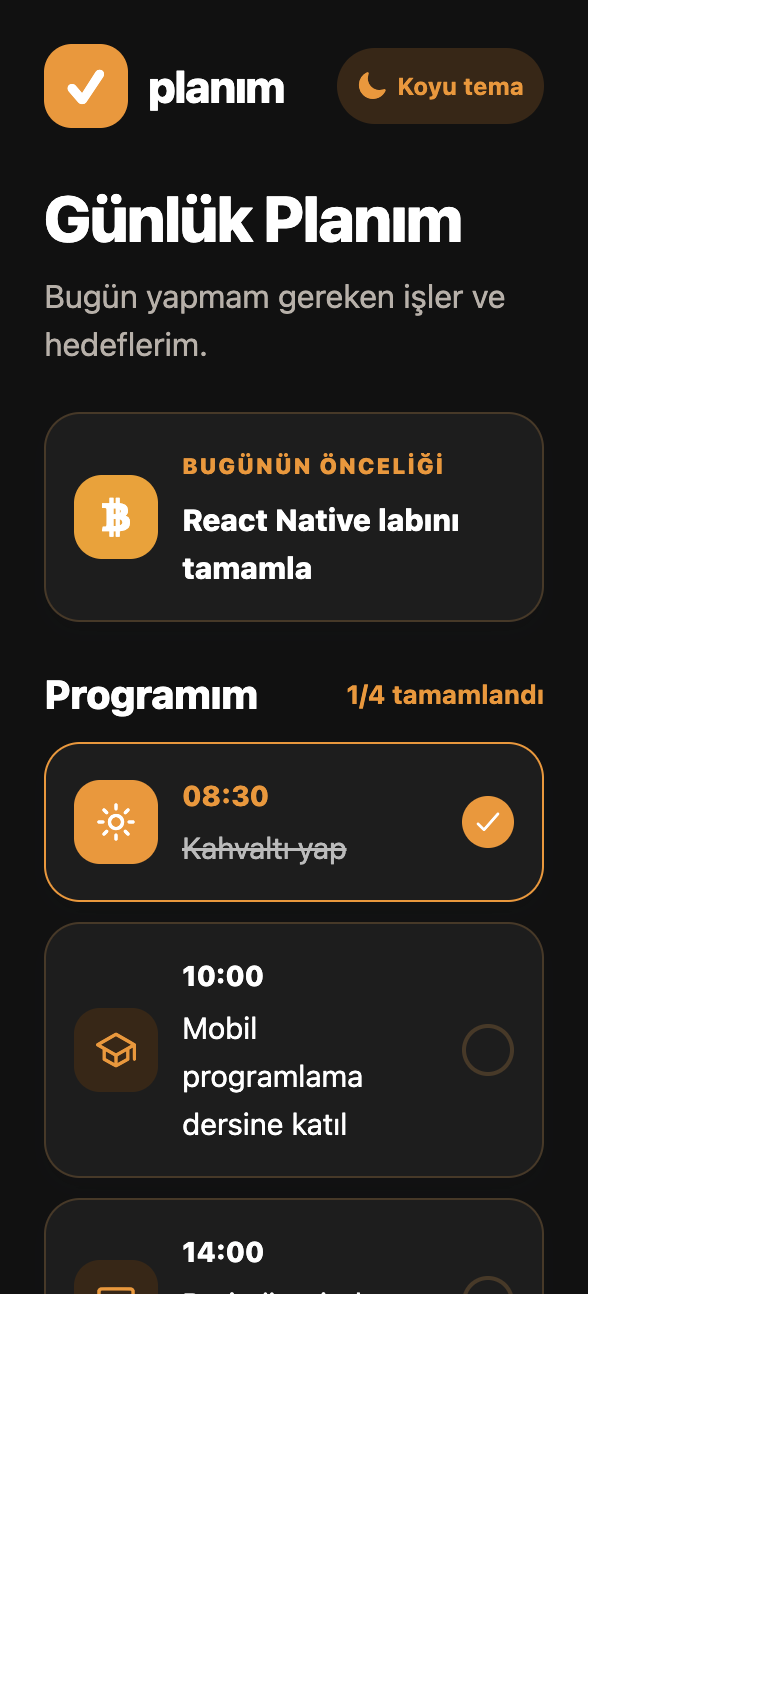
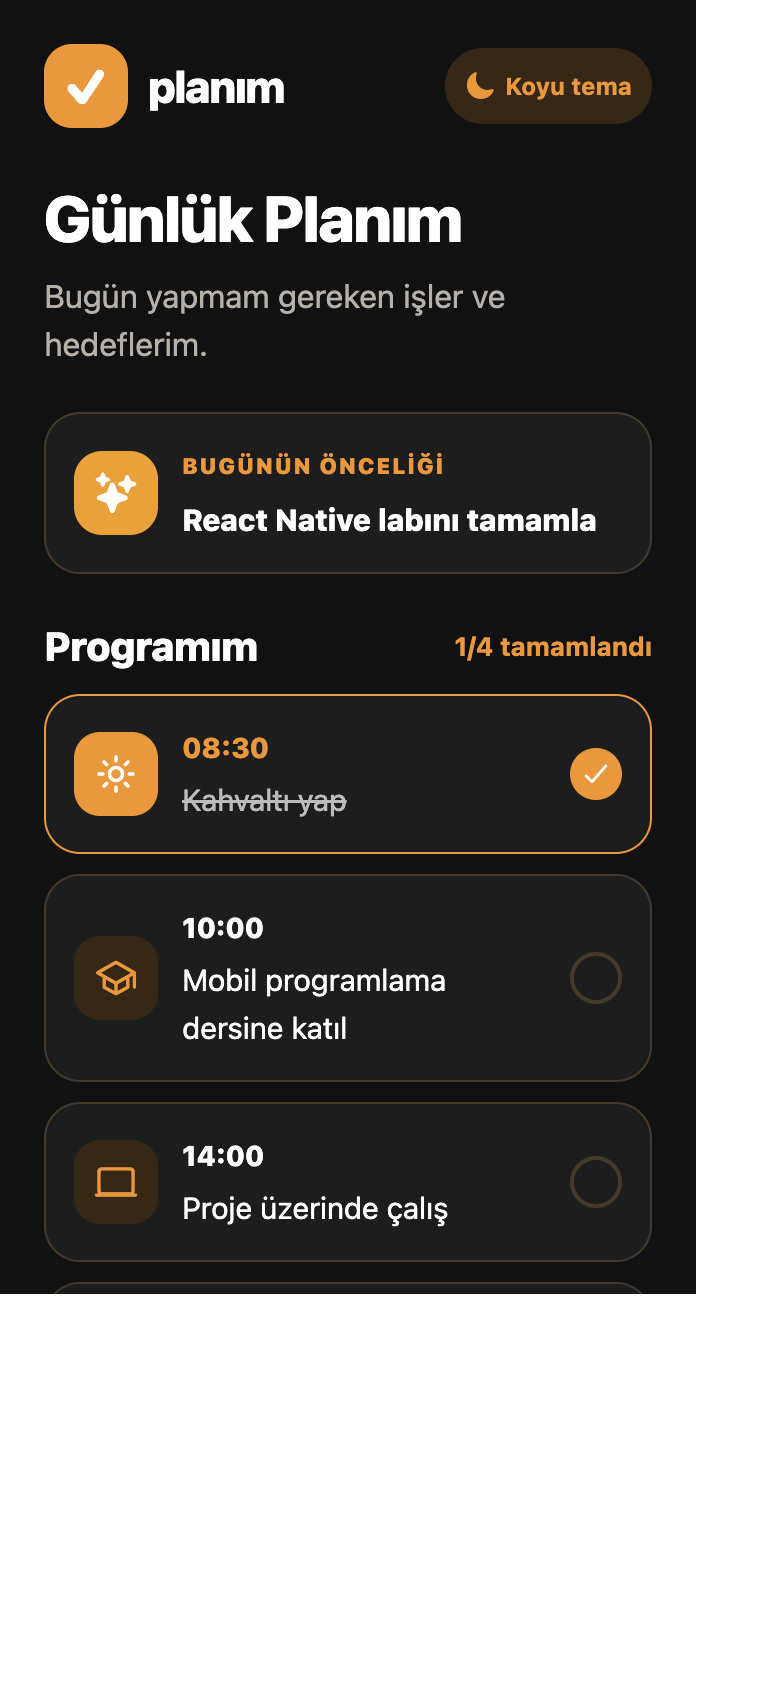
fix: remove bitcoin symbol

diff --git a/app/index.jsx b/app/index.jsx
@@ -47,7 +47,7 @@ export default function Index() {
           <Spacer height={22} />
           <ThemedCard style={styles.priority}>
             <View style={styles.priorityIcon}>
-              <Ionicons name="logo-bitcoin" size={22} color="#FFFFFF" />
+              <Ionicons name="sparkles" size={20} color="#FFFFFF" />
             </View>
             <View style={styles.priorityCopy}>
               <ThemedText style={[styles.priorityLabel, { color: colors.primary }]}>BUGÜNÜN ÖNCELİĞİ</ThemedText>
